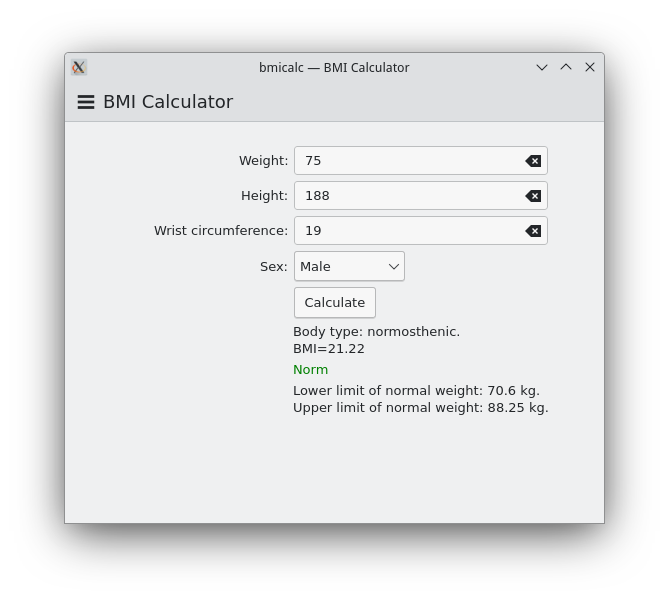
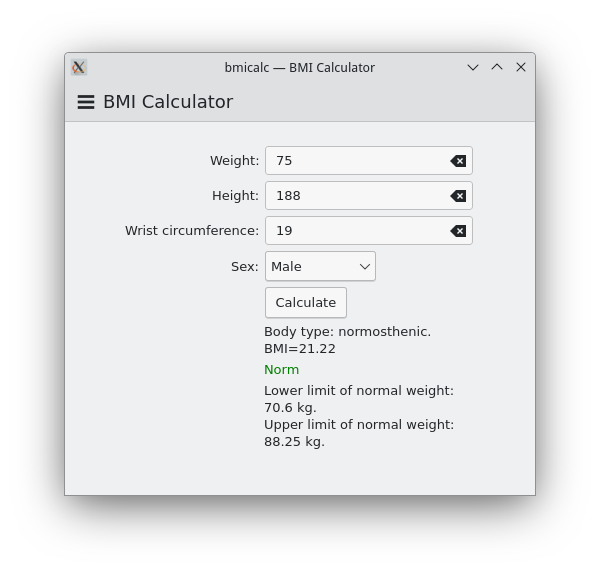
Add files via upload

Changed region(s): [[0.06, 0.0594, 0.93, 0.8916], [0.21, 0.2378, 0.81, 0.8024]]

diff --git a/src/contents/ui/main.qml b/src/contents/ui/main.qml
@@ -183,11 +183,11 @@ Kirigami.ApplicationWindow {
      }
   function  normalMassMin(x,y,z){
         var im=x*(y*y)/z;
-        return "Lower limit of normal weight: "+20*im.toFixed(2)+" kg.";
+        return "Lower limit of normal weight:\n"+20*im.toFixed(2)+" kg.";
     }
     function normalMassMax(x,y,z){
         var im=x*(y*y)/z;
-        return "Upper limit of normal weight: "+25*im.toFixed(2)+" kg.";
+        return "Upper limit of normal weight:\n"+25*im.toFixed(2)+" kg.";
     }
     function  somatoType(a,b){
         var s="";
